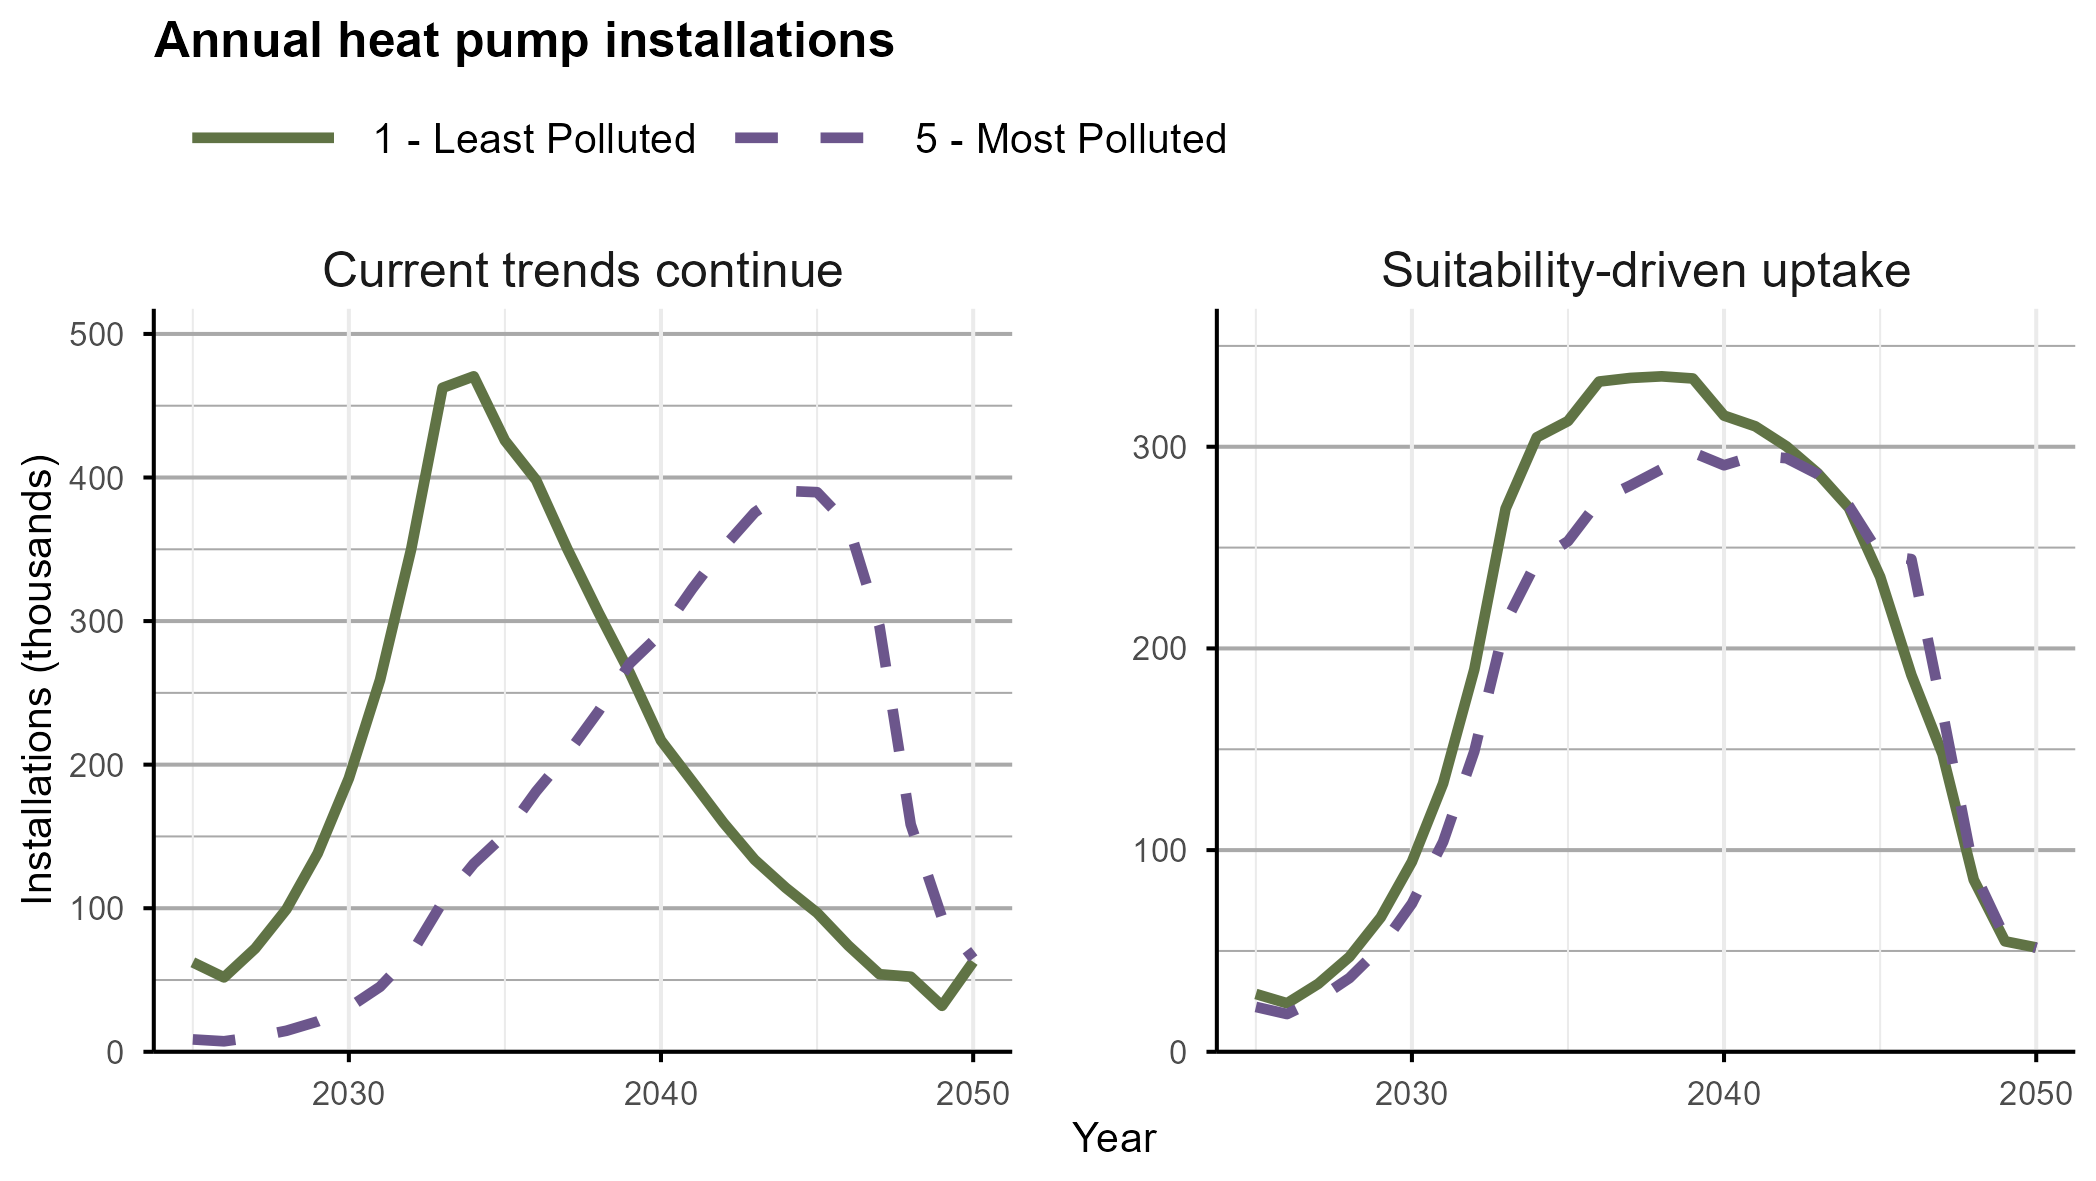
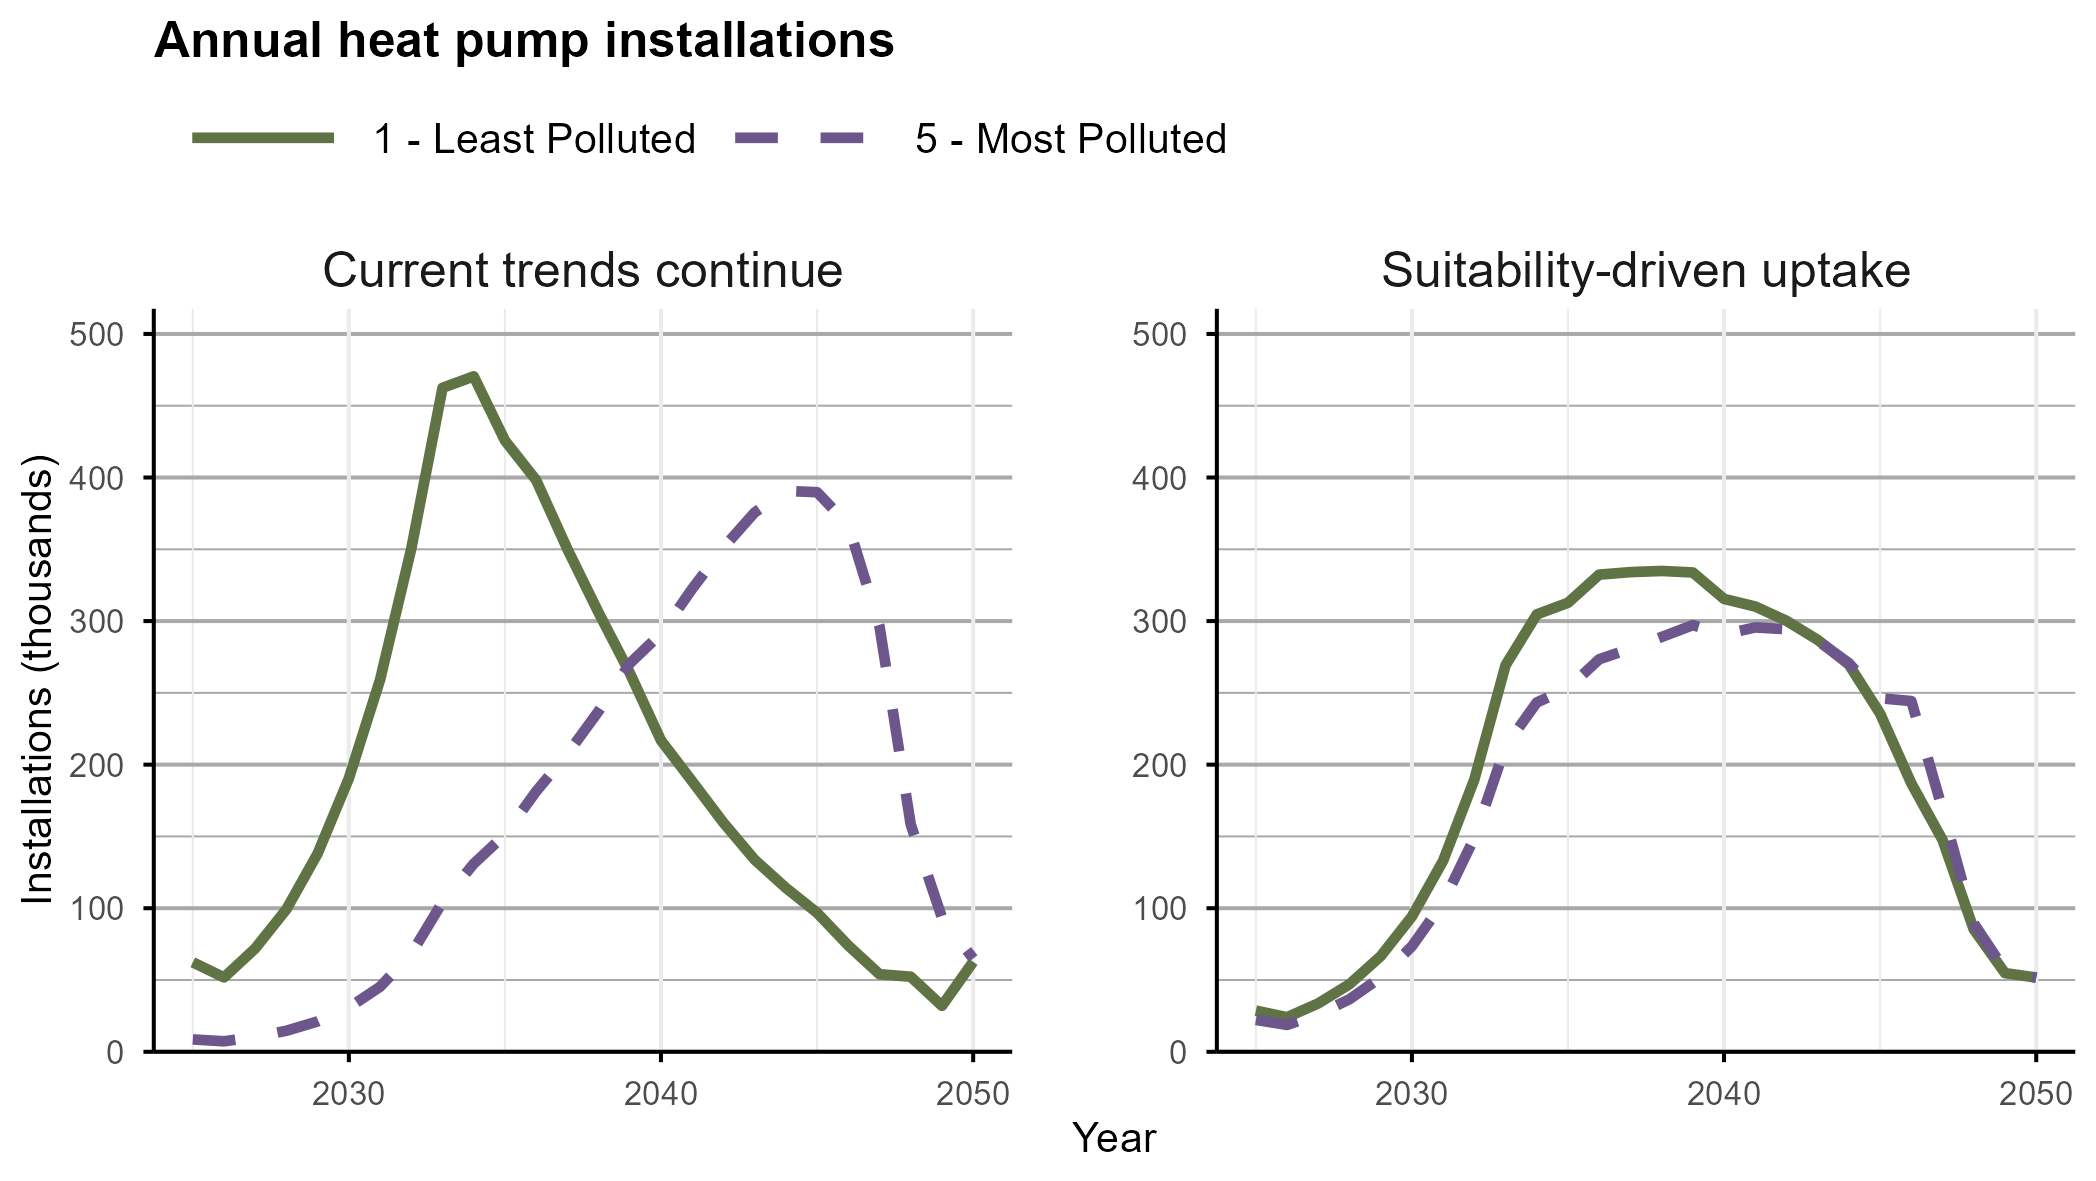
presentation for chem@york

Changed region(s): [[0.5272, 0.2743, 0.9924, 0.884]]

diff --git a/presentation.html b/presentation.html
@@ -10,7 +10,7 @@
   <meta name="generator" content="quarto-1.8.25">
 
   <meta name="author" content="Lucy Webster">
-  <meta name="dcterms.date" content="2026-06-17">
+  <meta name="dcterms.date" content="2026-06-18">
   <title>Heat pump adoption in England and Wales</title>
   <meta name="apple-mobile-web-app-capable" content="yes">
   <meta name="apple-mobile-web-app-status-bar-style" content="black-translucent">
@@ -162,7 +162,7 @@ Lucy Webster
     </div>
 </div>
 
-  <p class="date">17 June 2026</p>
+  <p class="date">18 June 2026</p>
 </section>
 <section id="the-uk-has-a-home-heating-problem" class="slide level2">
 <h2>The UK has a home heating problem</h2>
@@ -197,10 +197,11 @@ Lucy Webster
 </section>
 <section id="millions-of-small-chemical-reactors" class="slide level2" data-auto-animate="true">
 <h2 data-id="quarto-animate-title">Millions of small chemical reactors…</h2>
-<p>Combustion of natural gas doesn’t just make CO<sub>2</sub> and water.</p>
+<p>Combustion of natural gas doesn’t just make CO<sub>2</sub> and water. <strong>Also get NO<sub>x</sub> = NO + NO<sub>2</sub></strong></p>
 <p>Atmospheric N<sub>2</sub> is oxidised — thermal NO<sub>x</sub> forms via the Zeldovich mechanism:</p>
 <p><span class="math display">\[\mathrm{O + N_2 \rightarrow NO + N}\]</span></p>
 <p><span class="math display">\[\mathrm{N + O_2 \rightarrow NO + O}\]</span></p>
+<p><span class="math display">\[\mathrm{N + OH \rightarrow NO + H}\]</span></p>
 <div class="fragment" data-id="chemistry-list">
 <p>Once emitted, NO<sub>x</sub> drives secondary chemistry:</p>
 <ul>
@@ -209,7 +210,7 @@ Lucy Webster
 <li><span data-id="pm" style="display: inline-block;"><strong>Particulate matter</strong></span> <span data-id="pm-desc">— via nitrate aerosol formation</span></li>
 </ul>
 </div>
-<div class="fragment">
+<div class="fragment" style="position: absolute; bottom: 2em; right: 2em; width: 25%;">
 <div class="callout callout-note callout-style-simple">
 <div class="callout-body">
 <div class="callout-icon-container">
@@ -453,8 +454,10 @@ Lucy Webster
 <p><strong>Data: (at parliamentary constituency scale, 575 in England &amp; Wales)</strong></p>
 <ul>
 <li class="fragment">BUS + ECO installation statistics <span class="citation" data-cites="desnz_hpdeployment2024">(<a href="#/thank-you" role="doc-biblioref" onclick="">DESNZ 2026</a>)</span></li>
-<li class="fragment">Heat pump suitability index <span class="citation" data-cites="nesta_hpsuitability2024">(<a href="#/thank-you" role="doc-biblioref" onclick="">Nesta 2026</a>)</span></li>
-<li class="fragment">NO<sub>x</sub> emissions <span class="citation" data-cites="naei2024">(<a href="#/thank-you" role="doc-biblioref" onclick="">NAEI 2026</a>)</span></li>
+<li class="fragment">Heat pump suitability index <span class="citation" data-cites="nesta_hpsuitability2024">(<a href="#/thank-you" role="doc-biblioref" onclick="">Nesta 2026</a>)</span>
+<hr></li>
+<li class="fragment">NO<sub>x</sub> emissions <span class="citation" data-cites="naei2024">(<a href="#/thank-you" role="doc-biblioref" onclick="">NAEI 2026</a>)</span>
+<hr></li>
 <li class="fragment">Modelled NO<sub>x</sub> background concentrations <span class="citation" data-cites="defra_pcm2024">(<a href="#/thank-you" role="doc-biblioref" onclick="">DEFRA 2026</a>)</span></li>
 <li class="fragment">Deprivation (composite UK Index of Multiple Deprivation) <span class="citation" data-cites="parsons2021compositeimd">(<a href="#/thank-you" role="doc-biblioref" onclick="">Parsons 2021</a>)</span></li>
 </ul>
@@ -600,7 +603,7 @@ Lucy Webster
 <h2>Conclusions</h2>
 <ol type="1">
 <li class="fragment">Domestic boilers are becoming a <strong>dominant source of urban NO<sub>x</sub></strong> — heat pumps no emissions at the point of use</li>
-<li class="fragment">Climate change doesn’t care where a heat pump goes but it matters for <strong>Air quality</strong></li>
+<li class="fragment">Climate change doesn’t care where a heat pump goes but it matters for <strong>air quality</strong></li>
 <li class="fragment">Current subsidy design sends them to <strong>affluent, already-clean</strong> areas: 77% more NO<sub>x</sub> benefit.</li>
 <li class="fragment">Targeting by <strong>air quality, deprivation and suitability</strong> delivers more health benefit from the <em>same number</em> of heat pumps</li>
 </ol>
